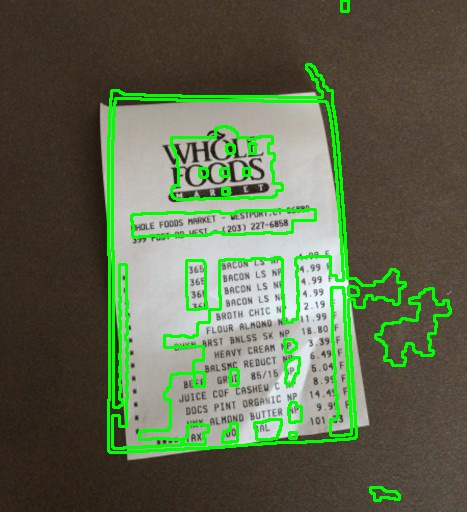
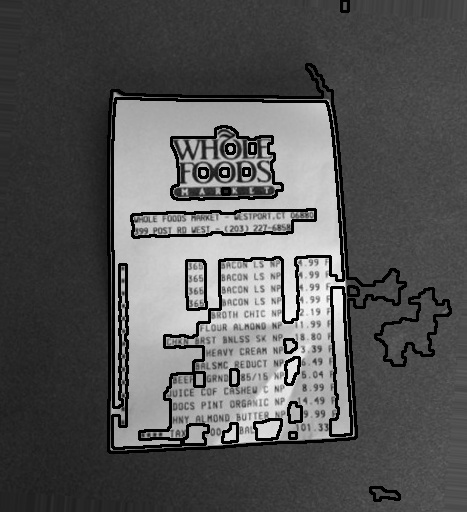
fixing contour image

diff --git a/ContourDetector.py b/ContourDetector.py
@@ -3,8 +3,9 @@ import cv2
 ## FIND ALL COUNTOURS
 def FindingContour(img,imgThreshold):
     imgContours = img.copy() # COPY IMAGE FOR DISPLAY PURPOSES
+    imgContours1 = imgThreshold.copy()
     # imgBigContour = img.copy() # COPY IMAGE FOR DISPLAY PURPOSES
-    _, contours,_ = cv2.findContours(imgThreshold, cv2.RETR_TREE, cv2.CHAIN_APPROX_SIMPLE) # FIND ALL CONTOURS
+    _, contours,_ = cv2.findContours(imgContours1, cv2.RETR_TREE, cv2.CHAIN_APPROX_SIMPLE) # FIND ALL CONTOURS
     cv2.drawContours(imgContours, contours, -1, (0, 255, 0), 2) # DRAW ALL DETECTED CONTOURS
     # resized=cv2.resize(imgContours,(heightImg//2,widthImg//2))
     cv2.imshow("contoured image",imgContours)

diff --git a/main.py b/main.py
@@ -33,7 +33,9 @@ img = SkewCorrection.skewCorrector(gray,heightImg,widthImg)
 imgThreshold = CannyErosionDilation.CannyErosionDilation(img)
 
 # FIND ALL COUNTOURS
-contours = ContourDetector.FindingContour(image,imgThreshold)
+cv2.imshow("image going in COUNTOURSdetection",img)
+cv2.waitKey(0)
+contours = ContourDetector.FindingContour(img,imgThreshold)
 
 biggest, maxArea = utlis.biggestContour(contours) # FIND THE BIGGEST CONTOUR
 if biggest.size != 0:
